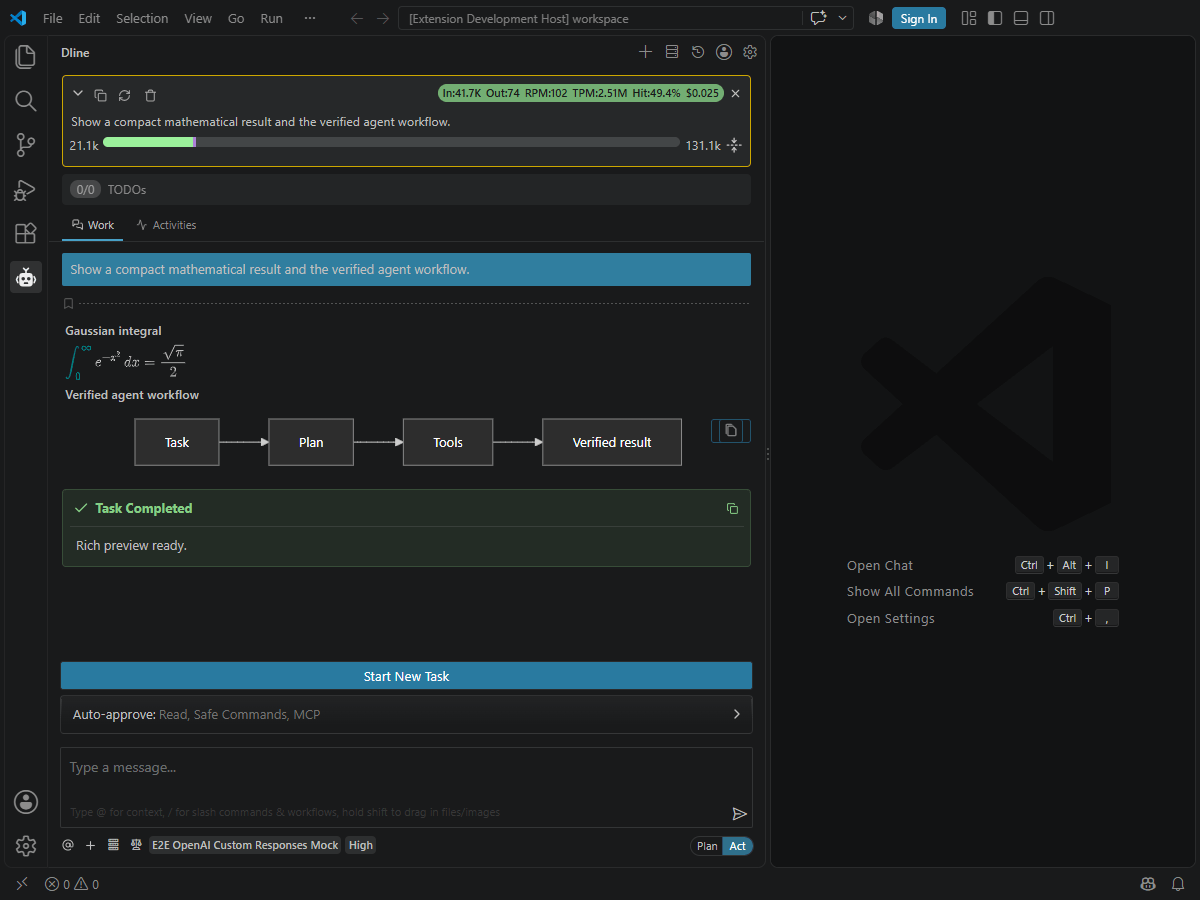
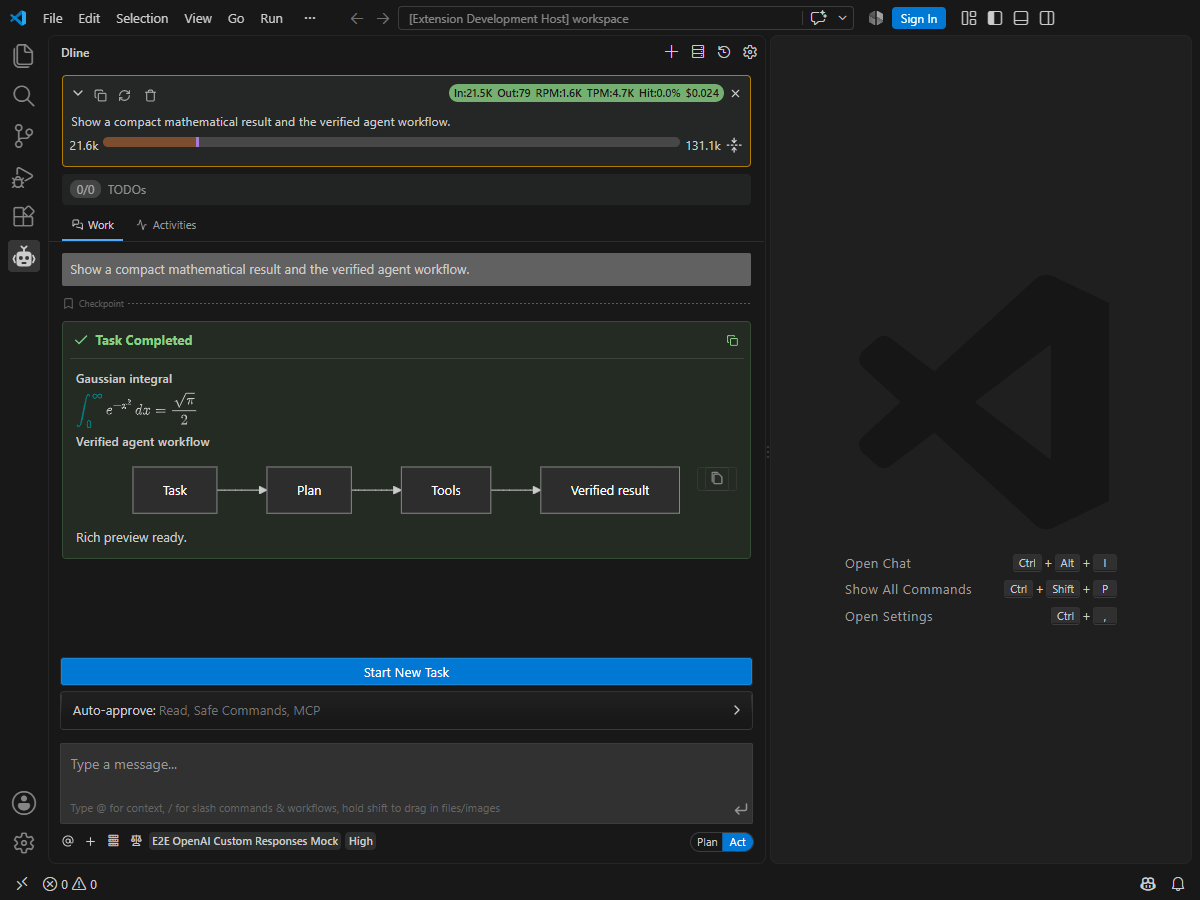
docs(demo): finish the dark and light marketplace demos
Docs:
- re-record R2, R4 and R6 and add their light versions, each GIF within 3 MB and 20 seconds
- record R8 compaction in dark and light
- render R10's LaTeX and Mermaid inside the completion result, since plain assistant text between tool calls is no longer shown, and add its light PNG
- shorten R6's pauses so it stays within 20 seconds

Fix:
- move the chat rendering journey's LaTeX content into the completion result for the same reason

diff --git a/src/test/e2e/demo/r10-rich-rendering.demo.ts b/src/test/e2e/demo/r10-rich-rendering.demo.ts
@@ -39,20 +39,15 @@ demo("R10", async ({ captureScreenshot, helper, page, server, sidebar, userDataD
     await selectProfile(sidebar, E2E_PROFILE_NAMES.mockOpenAiResponses)
 
     server.resetOpenAiMock()
-    server.enqueueResponses(
-        "openai-compatible-responses",
-        {
-            type: "message",
-            text: RICH_MARKDOWN,
-            expectedRequestIncludes: [TASK_TEXT],
-        },
-        {
-            type: "tool",
-            id: "call_r10_complete",
-            name: "attempt_completion",
-            arguments: { result: COMPLETION_TEXT },
-        },
-    )
+    // Plain assistant text between tool calls is not shown in the chat, so the rich
+    // content is part of the completion result, which renders as Markdown.
+    server.enqueueResponses("openai-compatible-responses", {
+        type: "tool",
+        id: "call_r10_complete",
+        name: "attempt_completion",
+        arguments: { result: `${RICH_MARKDOWN}\n\n${COMPLETION_TEXT}` },
+        expectedRequestIncludes: [TASK_TEXT],
+    })
 
     await dismissDemoNotifications(page)
     const input = sidebar.getByTestId("chat-input")
@@ -85,10 +80,7 @@ demo("R10", async ({ captureScreenshot, helper, page, server, sidebar, userDataD
     expect(asset.bytes).toBeLessThanOrEqual(500_000)
 
     const consumptions = server.getMockConsumptions("openai-compatible-responses")
-    expect(consumptions.map(({ responseType, toolName }) => [responseType, toolName])).toEqual([
-        ["message", undefined],
-        ["tool", "attempt_completion"],
-    ])
+    expect(consumptions.map(({ responseType, toolName }) => [responseType, toolName])).toEqual([["tool", "attempt_completion"]])
     expect(consumptions.every(({ contractError }) => contractError === undefined)).toBe(true)
     await E2ETestHelper.expectNoUnexpectedDlineErrors(userDataDir, [/Error fetching OpenRouter models/])
 })

diff --git a/src/test/e2e/functional/chat/chat-rendering-journey.test.ts b/src/test/e2e/functional/chat/chat-rendering-journey.test.ts
@@ -295,16 +295,14 @@ e2e(
             ].join("\n")
 
             server.resetOpenAiMock()
-            server.enqueueResponses(
-                "openai-compatible-responses",
-                { type: "message", text: answer },
-                {
-                    type: "tool",
-                    id: "call_latex_rendering_completion",
-                    name: "attempt_completion",
-                    arguments: { result: completionMarker },
-                },
-            )
+            // Plain assistant text between tool calls is not shown in the chat, so the
+            // Markdown under test is part of the completion result.
+            server.enqueueResponses("openai-compatible-responses", {
+                type: "tool",
+                id: "call_latex_rendering_completion",
+                name: "attempt_completion",
+                arguments: { result: `${answer}\n\n${completionMarker}` },
+            })
 
             await sendTask(sidebar, taskText)
             await expect(sidebar.getByText(completionMarker, { exact: false }).last()).toBeVisible({ timeout: 90_000 })

diff --git a/src/test/e2e/demo/r6-capability-scopes.demo.ts b/src/test/e2e/demo/r6-capability-scopes.demo.ts
@@ -159,7 +159,7 @@ demo(
         const completion = sidebar.getByText(COMPLETION_TEXT, { exact: false }).last()
         await expect(completion).toBeVisible({ timeout: 60_000 })
         await focusCamera(completion)
-        await pace(600)
+        await pace(400)
 
         const showCapabilities = sidebar.getByRole("button", { name: "Show Dline Rules & Workflows", exact: true }).first()
         await focusCamera(showCapabilities, STEP_SETTLE_MS)
@@ -190,7 +190,8 @@ demo(
         await expect(freshnessTooltip).toContainText("Rules changed")
         await expect(freshnessTooltip).toContainText("MCP tools changed")
         await focusCamera([refreshButton, freshnessTooltip], 0)
-        await pace(1_800)
+        // Keeps the clip inside the 20 s GIF budget while leaving the freshness tooltip readable.
+        await pace(800)
         await finishRecording()
 
         const consumptions = server.getMockConsumptions("openai-compatible-chat")
